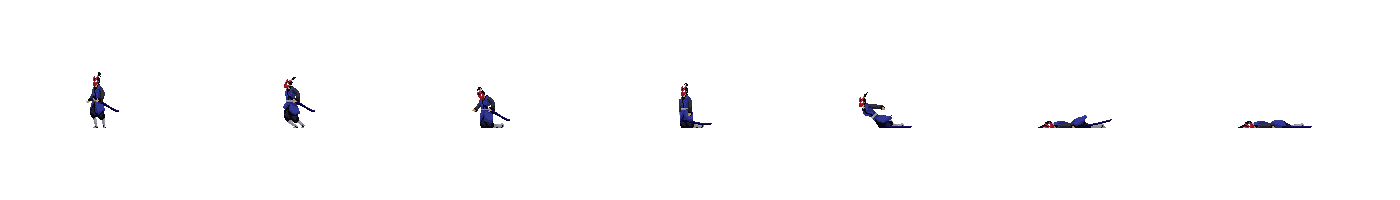
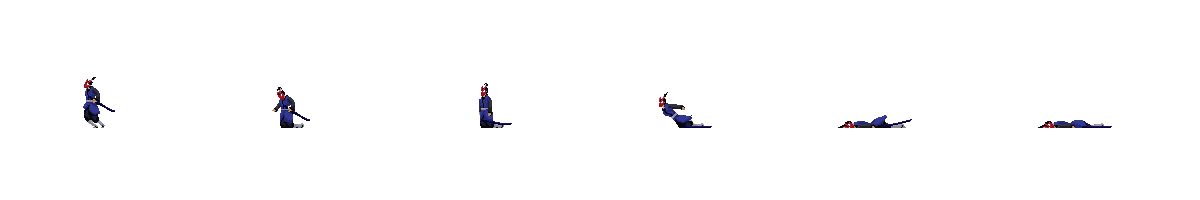
Death animation for second player has been fixed

diff --git a/classes.js b/classes.js
@@ -102,6 +102,17 @@ class Player extends Sprite {
         }
     }
 
+    draw() {
+        super.draw();
+        if (this.attackZone.time > 0) {
+            console.log(this.attackZone.time, this.attackZone.x, this.attackZone.y,
+                this.attackZone.width, this.attackZone.height);
+            c.fillStyle = 'red';
+            c.fillRect(this.attackZone.position.x, this.attackZone.position.y,
+                this.attackZone.width, this.attackZone.height);
+        }
+    }
+
     update() {
         super.update();
 
@@ -111,7 +122,6 @@ class Player extends Sprite {
         } else {
             this.velocity.y = Math.min(this.velocity.y + this.gravity, 5);
         }
-        console.log(this.state, this.position.y);
         this.setState();
         --this.attackZone.time;
         this.position.x = Math.min(Math.max(this.position.x +
@@ -243,7 +253,7 @@ class Right extends Player {
     states = {
         'attack1': 4,
         'attack2': 4,
-        'death': 7,
+        'death': 6,
         'fall': 2,
         'idle': 4,
         'jump': 2,
